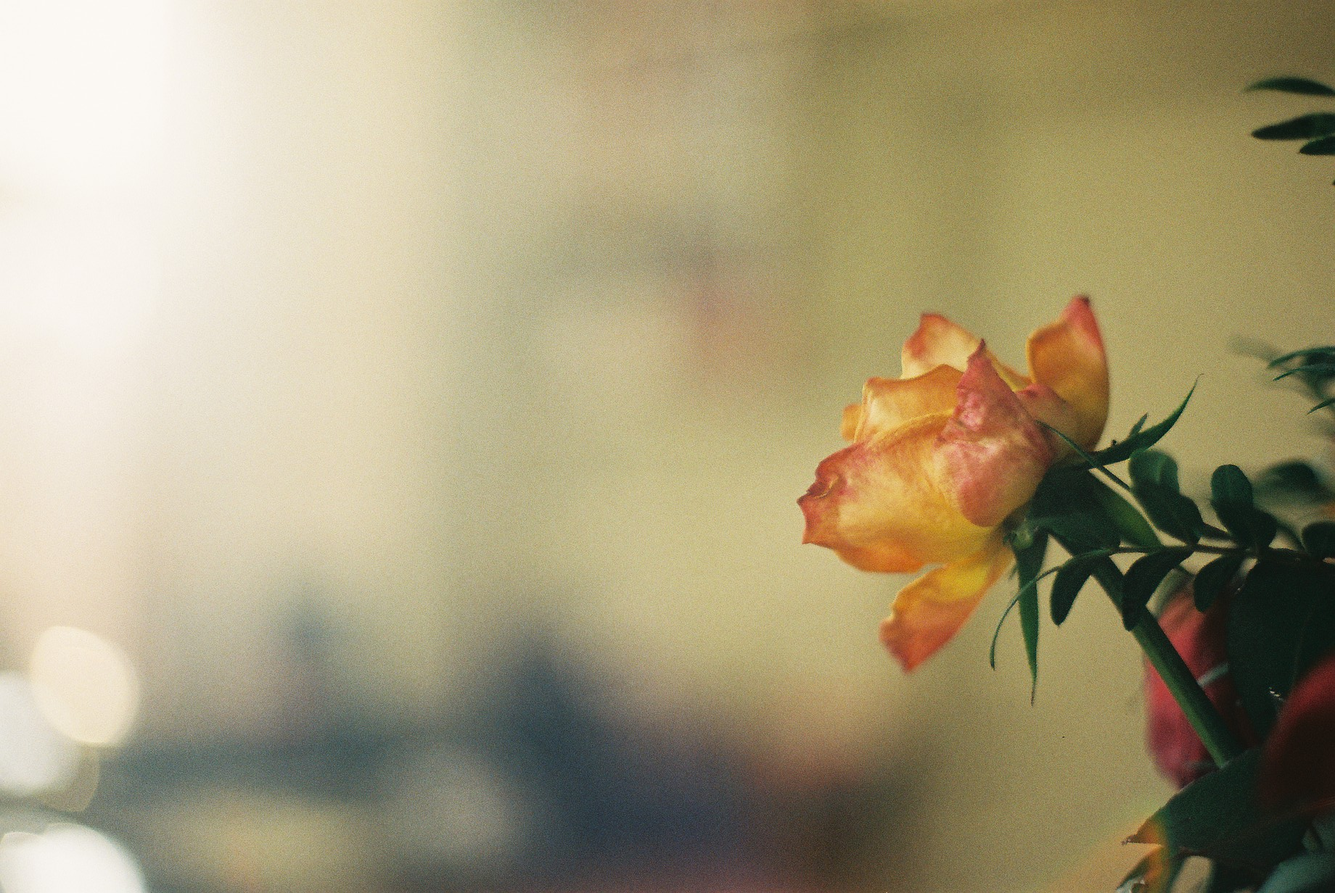
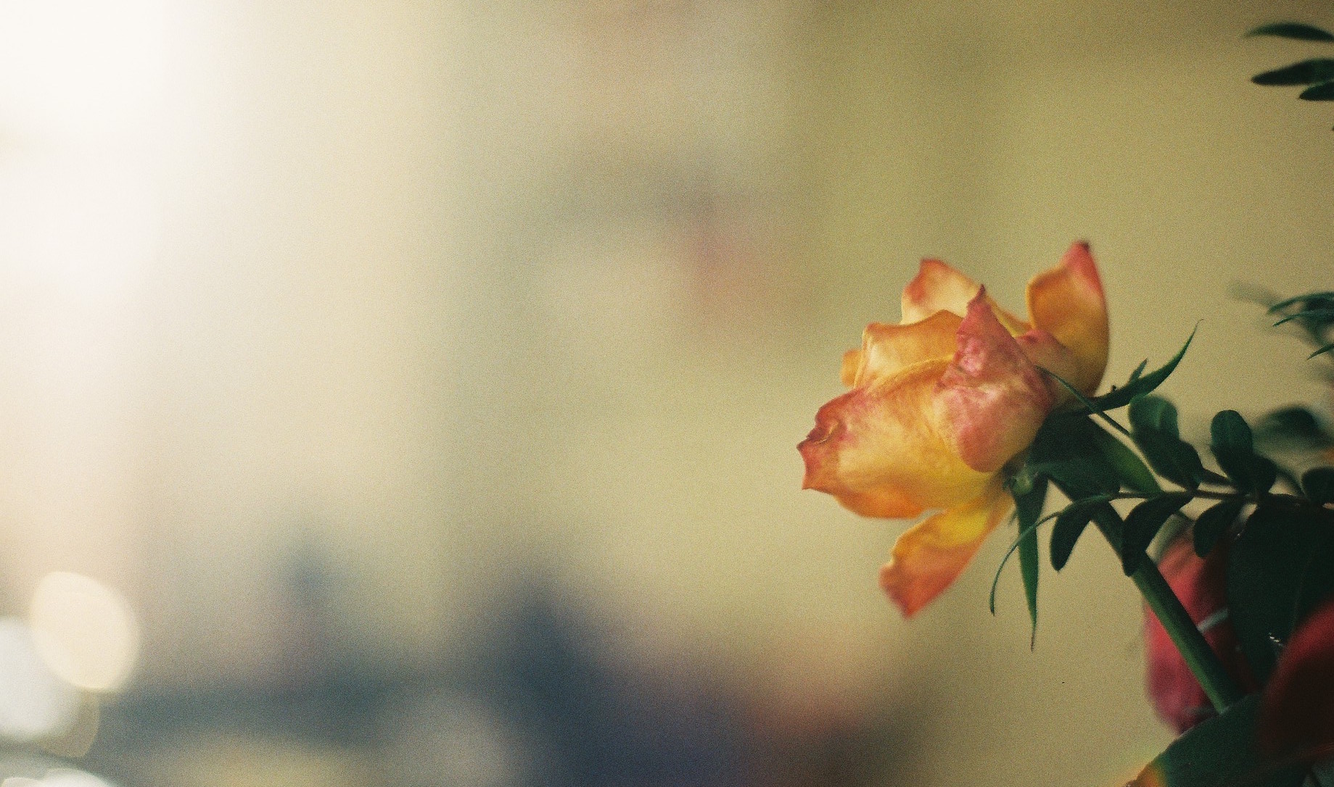
New site correction v.1.1

diff --git a/index.html b/index.html
@@ -1,9 +1,4 @@
 <!DOCTYPE HTML>
-<!--
-	Highlights by Pixelarity
-	pixelarity.com @pixelarity
-	License: pixelarity.com/license
--->
 <html>
 	<head>
 		<title>JBP / Home</title>
@@ -37,7 +32,7 @@
 						<header class="major">
 							<h2>About</h2>
 						</header>
-						<p>I'm currently working as a photographer and web designer on a freelance basis. I am based in Northampton and Cambridge area, however I often accept jobs further afield If you would like to get in contact with me for buisness, or you have any questions. Don't hesistate to get in touch via the form below.</p>
+						<p>I'm currently working as a photographer and web designer on a freelance basis. I am based in Northampton and Cambridge area, however I often accept jobs further afield. If you would like to get in contact with me regarding buisness, or you have any questions. Don't hesistate to get in touch via the form below.</p>
 					</div>
 					<a href="#two" class="goto-next scrolly">Next</a>
 				</div>
@@ -418,7 +413,7 @@ print 'It took ' + i + ' iterations to sort the deck.';</code></pre>
 					<header class="major">
 						<h2>Get in touch</h2>
 					</header>
-					<form method="post" action="#">
+					<form method="post" action="https://formspree.io/barford.j@oundleschool.org.uk">
 						<div class="row uniform">
 							<div class="6u 12u$(xsmall)"><input type="text" name="name" id="name" placeholder="Name" /></div>
 							<div class="6u$ 12u$(xsmall)"><input type="email" name="email" id="email" placeholder="Email" /></div>
@@ -436,7 +431,7 @@ print 'It took ' + i + ' iterations to sort the deck.';</code></pre>
 						<li><a href="https://www.facebook.com/jake.barford.7" class="icon alt fa-facebook"><span class="label">Facebook</span></a></li>
 						<li><a href="https://www.instagram.com/jakebarford/" class="icon alt fa-instagram"><span class="label">Instagram</span></a></li>
 						<li><a href="mailto:barford.j@oundleschool.org.uk" class="icon alt fa-envelope"><span class="label">Email</span></a></li>
-                        <li><a href="www.paypal.me/jakebarford" class="icon alt fa-cc-paypal"><span class="label">Twitter</span></a></li>
+                        <li><a href="http://www.paypal.me/jakebarford" class="icon alt fa-cc-paypal"><span class="label">PayPal</span></a></li>
 					</ul>
 					<ul class="copyright">
 						<li>&copy; Jake Barford</li>

diff --git a/assets/css/main.css b/assets/css/main.css
@@ -1312,10 +1312,10 @@
 	html {
 		background-color: #313a3d;
 		background-attachment: fixed,						fixed;
-		background-image: url("images/overlay.png"), url("../../images/bg.jpg");
-		background-position: top left,					center center;
+		background-image: url("../../images/bg.jpg");
+		background-position: center;
 		background-repeat: repeat,						none;
-		background-size: auto,						cover;
+		background-size: 100% 100%;
 	}
 
 	html.is-loading body *, html.is-loading body *:before, html.is-loading body *:after {
